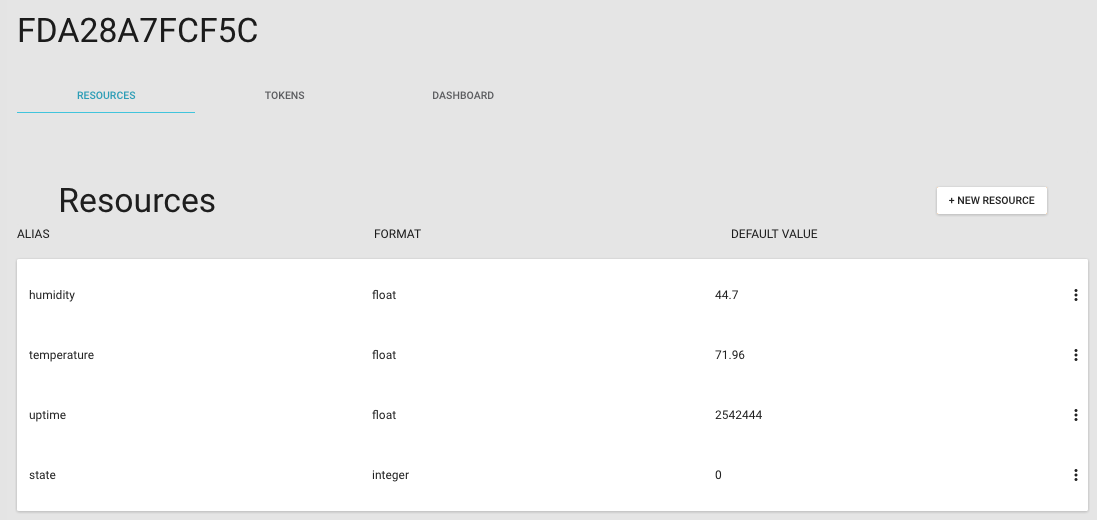
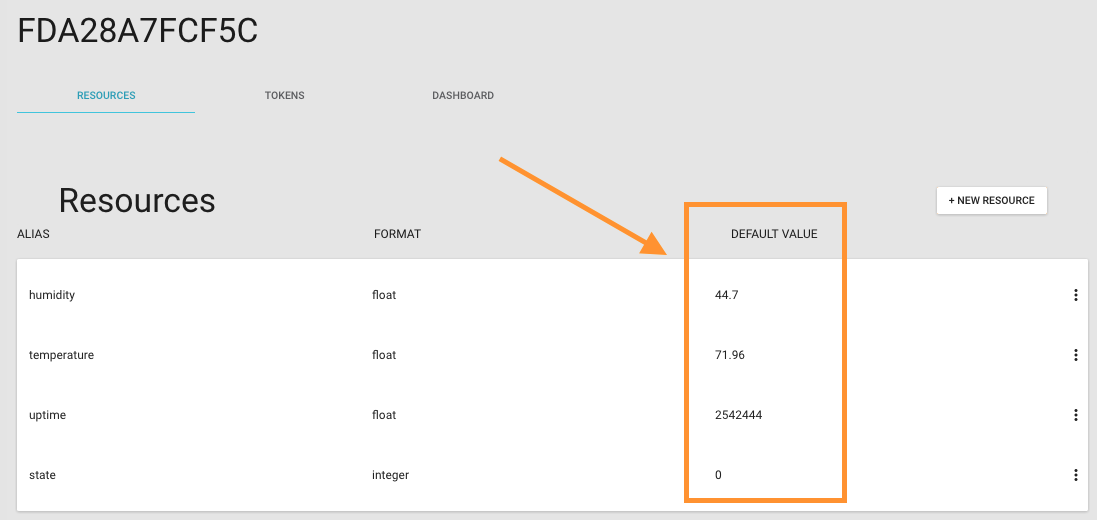
finish update to add device

Changed region(s): [[0.5579, 0.3692, 0.7748, 0.9846], [0.4649, 0.3077, 0.5269, 0.4], [0.5269, 0.4, 0.5579, 0.4308]]

diff --git a/murano/get-started/products/esp8266_thingdev_murano_smart_lightbulb/README.md b/murano/get-started/products/esp8266_thingdev_murano_smart_lightbulb/README.md
@@ -172,6 +172,33 @@ If previously used, it may have an old CIK (private device API key) stored in it
 
    ![device resources](assets/device_resources_new_data.png)
 
+4. Click on ‘Dashboard’
+
+	![click dashboard](assets/click_dashboard.png)
+
+You will then see
+
+	![initial dashboard](assets/initial_dashboard.png)
+
+5. Add a text pane for temperature and include sparkline
+
+![add temperature](assets/add_temperature.png)
+
+6. Do the same for humidity. 
+
+7. Add a toggle switch for your light (use datasource: state)
+
+8. Interact with live data! Turn your lightbulb on and off from the dashboard.
+
+![interact data](assets/interact_data.png)
+
+**You now have a device connected to Exosite’s Murano IoT Platform!** 
+__Any device that connects as that same product will inherit the same resources.__
+
+
+
+
+
 ## Run the Product Dashboard Developer Tool
 1. On the Device page, click the 'Dashboard' tab - which is a link to the Murano Product Dashboard Developer Tool.  This opens a new browser tab.  
    ![dashboard link](assets/dashboard_link.png)
